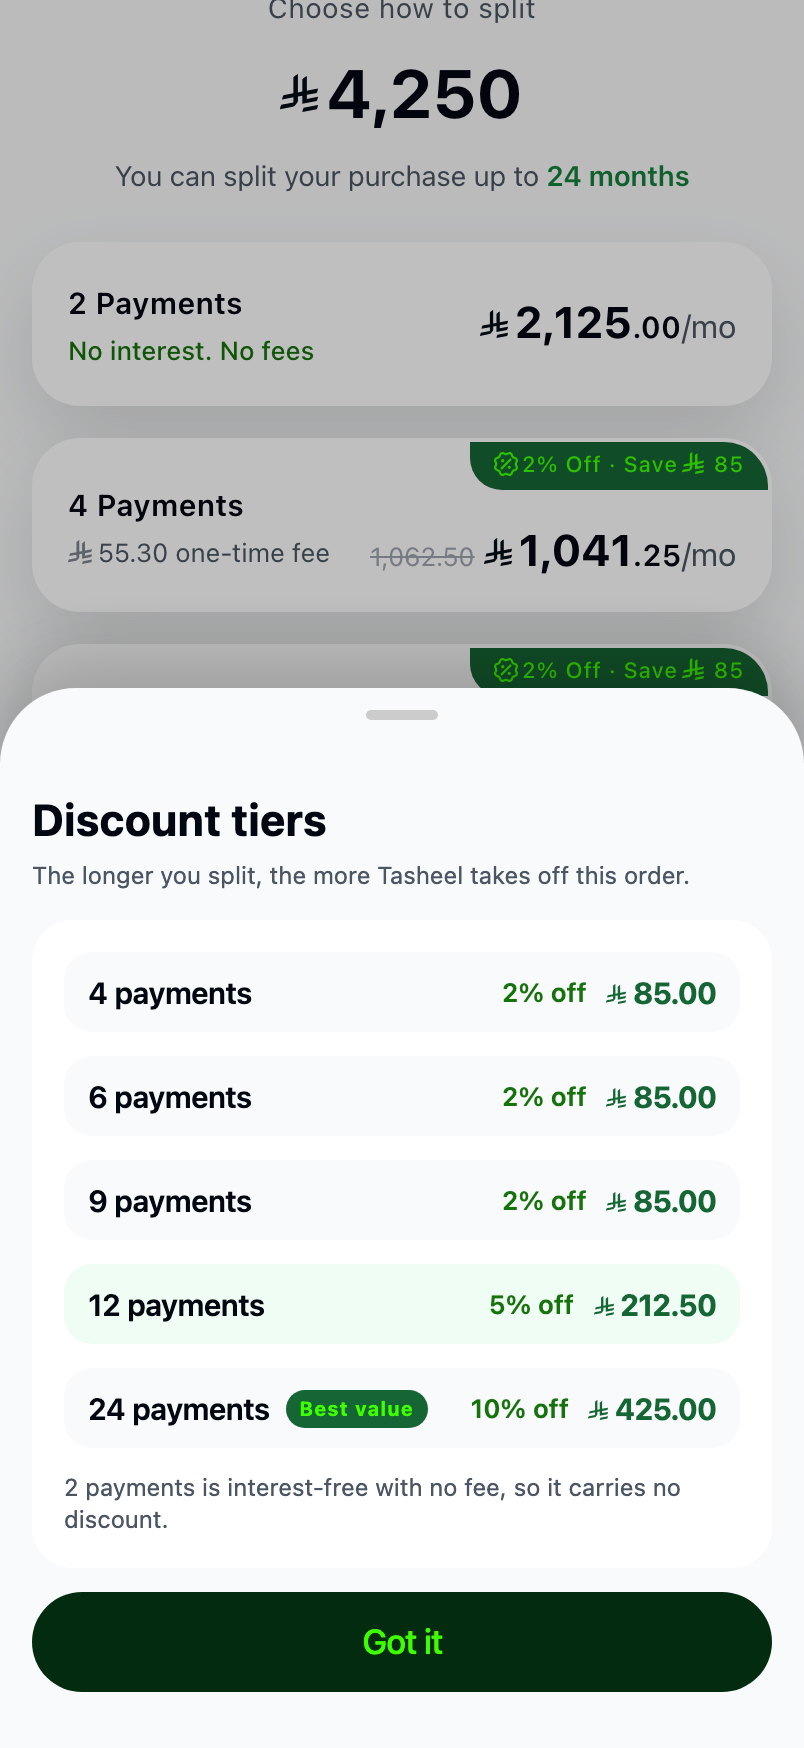
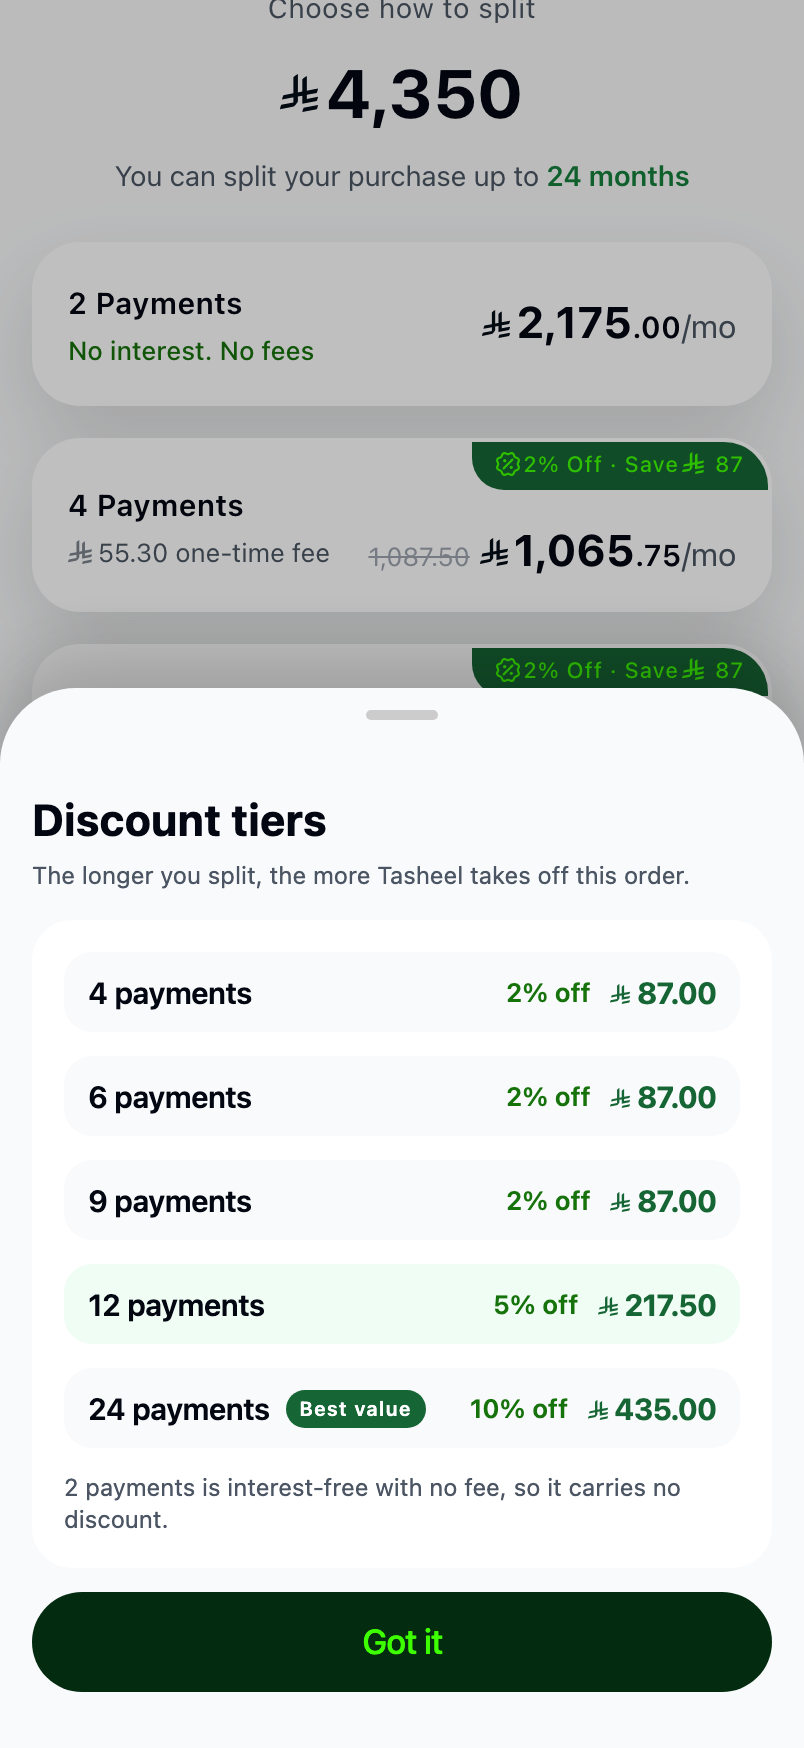
One discount system: plan tiers on the cart total, nothing else
The pill said 12% because it combined an invented merchant discount (4,350 ->
4,250) with the plan tier. That merchant discount is gone: the plan tier IS the
discount, always on the cart total, so every percent a shopper sees matches a
drop they can verify (10% of 4,350 = 435, pay 3,915).

- Cart pill: chip + strikethrough only when a discounted plan is selected;
  before any selection it is just "2 Items - 4,350". Chip shows the plan's own
  rate, never a blended number.
- Hero: fee disclosure only ("includes 55.30 in total fees"), Figma copy.
- Ledger + cart sheet: "Plan discount (n%)" replaces the two-discount stack.
- Success + notification + deep link amounts follow wcPlanPayable(months).
- Rail beautified: full card width, 44px buttons, 20px numbers, and the 10%
  best rate is a small solid badge instead of a fifth text label.
- Saving strip: one sentence + "Discounts >" link, underline dropped; best
  state reads "Best value - 10% off your cart".

diff --git a/App.tsx b/App.tsx
@@ -830,7 +830,7 @@ function Checkout({ setRoute }: { setRoute: (r: RouteKey) => void }) {
             <Pressable
               testID="wc-tasheel-offer"
               accessibilityRole="button"
-              accessibilityLabel={`Continue with Tasheel Finance, instant ${WC_DISCOUNT_PERCENT} percent off, pay ${wcMoney(WC_DISCOUNTED_TOTAL)} instead of ${wcMoney(WC_CART_TOTAL)}`}
+              accessibilityLabel={`Continue with Tasheel Finance, up to ${Math.round(wcSavingRate(WC_BEST_TENURE) * 100)} percent off your order, split in up to ${WC_TENURES[WC_TENURES.length - 1]} payments`}
               onPress={() => { setCheckoutMethod('tasheel'); setRoute('wcMobile'); }}
               style={[styles.xOfferCard, checkoutMethod === 'tasheel' && styles.xOfferCardSelected]}
             >
@@ -842,7 +842,7 @@ function Checkout({ setRoute }: { setRoute: (r: RouteKey) => void }) {
               </View>
               <Text style={styles.xOfferTitle}>Split your purchases your way!</Text>
               <Text style={styles.xOfferBody}>
-                Instant {WC_DISCOUNT_PERCENT}% off your order — pay {wcMoney(WC_DISCOUNTED_TOTAL)} instead of {wcMoney(WC_CART_TOTAL)}, in up to {WC_TENURES[WC_TENURES.length - 1]} payments.
+                Up to {Math.round(wcSavingRate(WC_BEST_TENURE) * 100)}% off your order, split in up to {WC_TENURES[WC_TENURES.length - 1]} payments. Longer plans earn bigger discounts.
               </Text>
               <Pressable onPress={() => setHowOpen((v) => !v)} accessibilityRole="button" accessibilityLabel="How does Tasheel Finance work?" hitSlop={6}>
                 <Text style={styles.xOfferLink}>{howOpen ? 'Hide details' : 'How does it work?'}</Text>
@@ -1287,17 +1287,14 @@ function WcNafath({ setRoute }: { setRoute: (r: RouteKey) => void }) {
   );
 }
 
-// Harun meeting fixture: discount first, then finance only up to the available
-// BNPL limit. Any excess becomes the down payment; today's charge also includes
-// the first installment. Unknown long-tenure rates stay blocked, never inferred.
+// One discount system, one base: every rate below applies to the cart total.
+// There is no separate merchant discount — the plan tier IS the discount, so
+// the percent a shopper sees always matches the drop they can verify (4,350
+// minus 10% = 3,915). Financing is capped by the available BNPL limit; any
+// excess would become a down payment.
 const WC_CART_TOTAL = 4350.00;
 const WC_CART_ITEMS: number = 2;
 const WC_ORDER_REFERENCE = 'EXT-2026-45210';
-const WC_DISCOUNT_AMOUNT = 100.00;
-const WC_DISCOUNTED_TOTAL = Math.round((WC_CART_TOTAL - WC_DISCOUNT_AMOUNT) * 100) / 100;
-// Displayed as a whole percent on the cart pill, exactly as the Figma frame does
-// (4,350 → 4,250 reads as "2% Off"). Derived, never hard-coded in copy.
-const WC_DISCOUNT_PERCENT = Math.round((WC_DISCOUNT_AMOUNT / WC_CART_TOTAL) * 100);
 const WC_AVAILABLE_LIMIT = 5000.00;
 const WC_TENURES = [2, 4, 6, 9, 12, 24] as const;
 // Figma 3615:74055 — 2 payments is the free tier; every longer tenure carries a
@@ -1313,17 +1310,17 @@ const WC_SAVING_RATES: Record<number, number> = {
 };
 const wcPlanFee = (months: number) => (WC_SAVING_RATES[months] ? WC_PLAN_FEE : 0);
 const wcSavingRate = (months: number) => WC_SAVING_RATES[months] ?? 0;
-const wcPlanSaving = (months: number) => Math.round(WC_DISCOUNTED_TOTAL * wcSavingRate(months) * 100) / 100;
-// The tier saving comes off the amount financed — it is a real discount, not a
+const wcPlanSaving = (months: number) => Math.round(WC_CART_TOTAL * wcSavingRate(months) * 100) / 100;
+// The tier saving comes off the cart total — it is a real discount, not a
 // badge — so a longer tenure lowers both the total and every installment.
-const wcPlanPayable = (months: number) => Math.round((WC_DISCOUNTED_TOTAL - wcPlanSaving(months)) * 100) / 100;
+const wcPlanPayable = (months: number) => Math.round((WC_CART_TOTAL - wcPlanSaving(months)) * 100) / 100;
 const wcPlanFinanced = (months: number) => Math.min(wcPlanPayable(months), WC_AVAILABLE_LIMIT);
 const wcPlanDown = (months: number) => Math.max(0, Math.round((wcPlanPayable(months) - wcPlanFinanced(months)) * 100) / 100);
 const wcPlanTotal = (months: number) => Math.round((wcPlanPayable(months) + wcPlanFee(months)) * 100) / 100;
 const wcPlanMonthly = (months: number) => Math.round((wcPlanFinanced(months) / months) * 100) / 100;
 // Anchor price: what the same tenure would cost without its tier discount. Shown
 // struck-through next to the real monthly so the saving is felt, not just labelled.
-const wcPlanBaseMonthly = (months: number) => Math.round((Math.min(WC_DISCOUNTED_TOTAL, WC_AVAILABLE_LIMIT) / months) * 100) / 100;
+const wcPlanBaseMonthly = (months: number) => Math.round((Math.min(WC_CART_TOTAL, WC_AVAILABLE_LIMIT) / months) * 100) / 100;
 // The best plan is the highest saving rate — the product's headline offer (24 mo, 10%).
 const WC_BEST_TENURE = WC_TENURES.reduce((best, m) => (wcSavingRate(m) > wcSavingRate(best) ? m : best), WC_TENURES[0]);
 const wcPlanToday = (months: number) => Math.round((wcPlanDown(months) + wcPlanMonthly(months) + wcPlanFee(months)) * 100) / 100;
@@ -1336,7 +1333,7 @@ const wcOpenTasheelApp = (destination = 'tasheel://bnpl') => {
 const wcPurchaseDeepLink = (months: number) => {
   const params = new URLSearchParams({
     orderRef: WC_ORDER_REFERENCE,
-    amount: WC_DISCOUNTED_TOTAL.toFixed(2),
+    amount: wcPlanPayable(months).toFixed(2),
     months: String(months),
     merchant: 'extrastores',
   });
@@ -1417,28 +1414,36 @@ function WcQuickCall({ setRoute }: { setRoute: (r: RouteKey) => void }) {
 
 // Figma 3529:83319 — cart summary pill shared by both plan-selection variants:
 // item count, the applied merchant discount, struck original and payable total.
-// Every discount in this product lands on the cart total, so the pill is live:
-// pass the selected tenure and the cart amount drops with it, the chip carrying
-// the combined percent off the original 4,350 (merchant + plan tier).
+// Every discount lands on the cart total, so the pill is live: pick a plan and
+// the cart amount drops with it, the chip showing that plan's rate. With no
+// discounted plan selected there is nothing to claim — no chip, no strikethrough.
 function WcCartPill({ onPress, months }: { onPress: () => void; months?: number | null }) {
-  const tierSaving = months ? wcPlanSaving(months) : 0;
-  const payable = Math.round((WC_DISCOUNTED_TOTAL - tierSaving) * 100) / 100;
-  const pct = Math.round(((WC_DISCOUNT_AMOUNT + tierSaving) / WC_CART_TOTAL) * 100);
+  const rate = months ? Math.round(wcSavingRate(months) * 100) : 0;
+  const saving = months ? wcPlanSaving(months) : 0;
+  const payable = Math.round((WC_CART_TOTAL - saving) * 100) / 100;
   return (
     <Pressable
       testID="wc-cart-pill"
       style={styles.wcCartPill}
       onPress={onPress}
       accessibilityRole="button"
-      accessibilityLabel={`${WC_CART_ITEMS} items, ${pct} percent off your cart, pay ${wcMoney(payable)} instead of ${wcMoney(WC_CART_TOTAL)}. View cart details`}
+      accessibilityLabel={
+        saving > 0
+          ? `${WC_CART_ITEMS} items, ${rate} percent off your cart, pay ${wcMoney(payable)} instead of ${wcMoney(WC_CART_TOTAL)}. View cart details`
+          : `${WC_CART_ITEMS} items, ${wcMoney(WC_CART_TOTAL)}. View cart details`
+      }
     >
       <View style={styles.wcCartLeft}>
         <Image source={figmaImageSource('wcCartIcon')} resizeMode="contain" accessibilityIgnoresInvertColors style={{ width: 16, height: 16 }} />
         <Text style={styles.wcCartItems}>{WC_CART_ITEMS} {WC_CART_ITEMS === 1 ? 'Item' : 'Items'}</Text>
       </View>
       <View style={styles.wcCartRight}>
-        <View style={styles.wcCartDiscountChip}><Text style={styles.wcCartDiscountChipText}>{pct}% Off</Text></View>
-        <Text style={styles.wcCartWasPrice}>{formatAmount(WC_CART_TOTAL)}</Text>
+        {saving > 0 ? (
+          <>
+            <View style={styles.wcCartDiscountChip}><Text style={styles.wcCartDiscountChipText}>{rate}% Off</Text></View>
+            <Text style={styles.wcCartWasPrice}>{formatAmount(WC_CART_TOTAL)}</Text>
+          </>
+        ) : null}
         <Money amount={wcSaving(payable)} size={16} weight="600" />
         <Image source={figmaImageSource('wcArrowRight')} resizeMode="contain" accessibilityIgnoresInvertColors style={{ width: 13, height: 13 }} />
       </View>
@@ -1452,18 +1457,12 @@ function WcSavingStrip({ months, onViewDiscounts }: { months: number; onViewDisc
   const saving = wcPlanSaving(months);
   const isBest = months === WC_BEST_TENURE;
   return (
-    <View style={[styles.wcSavingStrip, isBest && styles.wcSavingStripBest]}>
+    <View style={styles.wcSavingStrip}>
       <View style={styles.wcSavingLeft}>
-        {isBest ? (
-          <View style={styles.wcBestChip}><Text style={styles.wcBestChipText}>Best value</Text></View>
-        ) : (
-          <SaleTag size={16} color={greenMid} />
-        )}
+        <SaleTag size={16} color={greenMid} />
         {saving > 0 ? (
-          // On the best plan the chip + live cart pill already carry the story;
-          // repeating "Save 425" here is what made the strip wrap.
           isBest ? (
-            <Text style={styles.wcSavingText}>{Math.round(wcSavingRate(months) * 100)}% off your cart</Text>
+            <Text style={styles.wcSavingText}>Best value · {Math.round(wcSavingRate(months) * 100)}% off your cart</Text>
           ) : (
             <>
               <Text style={styles.wcSavingText}>{Math.round(wcSavingRate(months) * 100)}% off cart · Save</Text>
@@ -1476,7 +1475,7 @@ function WcSavingStrip({ months, onViewDiscounts }: { months: number; onViewDisc
         )}
       </View>
       <Pressable testID="wc-view-discounts" onPress={onViewDiscounts} hitSlop={10} accessibilityRole="button" accessibilityLabel="View discount tiers">
-        <Text style={styles.wcSavingLink}>View discounts</Text>
+        <Text style={styles.wcSavingLink}>Discounts ›</Text>
       </Pressable>
     </View>
   );
@@ -1551,7 +1550,12 @@ function WcTenureRail({ months, onSelect }: { months: number; onSelect: (m: numb
               style={styles.wcStepperSlot}
             >
               <Text style={styles.wcStepperSide}>{value}</Text>
-              <Text style={[styles.wcStepperPct, value === WC_BEST_TENURE && styles.wcStepperPctBest]}>{pct}</Text>
+              {value === WC_BEST_TENURE && rate > 0 ? (
+                // The headline rate is a jewel, not a fifth text label.
+                <View style={styles.wcStepperBestPill}><Text style={styles.wcStepperBestPillText}>{pct}</Text></View>
+              ) : (
+                <Text style={styles.wcStepperPct}>{pct}</Text>
+              )}
             </Pressable>
           );
         })}
@@ -1603,21 +1607,18 @@ function WcTenure({ setRoute, months, setMonths }: { setRoute: (r: RouteKey) => 
                       <Text style={styles.wcPlanHeroAmount}>{wcMoney(wcPlanMonthly(months))}</Text>
                       <Text style={styles.wcPlanHeroPer}>/mo</Text>
                     </View>
-                    {/* Total + fee only — the discount story lives on the cart
-                        pill above, which drops as the tenure grows. */}
+                    {/* Fee disclosure only (Figma 3529:83379) — the totals and the
+                        discount story live on the cart pill above. */}
                     <View style={styles.wcPlanTotalRow}>
-                      <Text style={styles.wcPlanTotalLabel}>Total</Text>
-                      <Riyal size={11} />
-                      <Text style={styles.wcPlanTotalAmount}>{wcSaving(wcPlanPayable(months))}</Text>
                       {fee > 0 ? (
                         <>
-                          <Text style={styles.wcPlanTotalFee}>+ <Riyal size={10} color={muted} /> {wcMoney(fee)} fee</Text>
+                          <Text style={styles.wcPlanTotalFee}>includes <Riyal size={10} color={muted} /> {wcMoney(fee)} in total fees</Text>
                           <Pressable testID="wc-fee-help" onPress={() => setSheet('fee')} hitSlop={10} accessibilityRole="button" accessibilityLabel={`Explain the ${months} month fee`}>
                             <Image source={figmaImageSource('wcInfoCircle')} resizeMode="contain" accessibilityIgnoresInvertColors style={{ width: 13, height: 13 }} />
                           </Pressable>
                         </>
                       ) : (
-                        <Text style={styles.wcPlanTotalFee}>· No fees</Text>
+                        <Text style={styles.wcPlanTotalFee}>No interest. No fees</Text>
                       )}
                     </View>
                   </View>
@@ -1728,7 +1729,7 @@ function WcPlanList({ setRoute, months, setMonths }: { setRoute: (r: RouteKey) =
               <Text style={styles.wcPlansEyebrow}>Choose how to split</Text>
               <View style={styles.wcPlansTotalRow}>
                 <Riyal size={19} />
-                <Text style={styles.wcPlansTotal}>{formatAmount(WC_DISCOUNTED_TOTAL)}</Text>
+                <Text style={styles.wcPlansTotal}>{formatAmount(WC_CART_TOTAL)}</Text>
               </View>
               <Text style={styles.wcPlansSub}>
                 You can split your purchase up to <Text style={styles.wcPlansSubStrong}>{maxTenure} months</Text>
@@ -1747,7 +1748,7 @@ function WcPlanList({ setRoute, months, setMonths }: { setRoute: (r: RouteKey) =
               accessibilityLabel="View discount tiers"
               style={{ alignSelf: 'center' }}
             >
-              <Text style={styles.wcSavingLink}>View discount tiers</Text>
+              <Text style={styles.wcSavingLink}>View discount tiers ›</Text>
             </Pressable>
           </View>
           <View style={styles.wcPlansFooter}>
@@ -1870,13 +1871,11 @@ function WcPlanDetailsSheet({ months, onClose, onViewSchedule, onContinue }: { m
           </Pressable>
         </View>
         <View style={styles.wcDetailsCard}>
-          <View style={styles.reviewLine}><Text style={styles.wcDetailsLabel}>Order total</Text><Money amount={wcMoney(WC_CART_TOTAL)} size={17} /></View>
-          <View style={styles.reviewDivider} />
-          <View style={styles.reviewLine}><Text style={[styles.wcDetailsLabel, { color: greenMid }]}>Tasheel discount ({WC_DISCOUNT_PERCENT}%)</Text><Text style={styles.wcFeeFree}>− <Riyal size={10} color={greenMid} /> {wcMoney(WC_DISCOUNT_AMOUNT)}</Text></View>
+          <View style={styles.reviewLine}><Text style={styles.wcDetailsLabel}>Cart total</Text><Money amount={wcMoney(WC_CART_TOTAL)} size={17} /></View>
           <View style={styles.reviewDivider} />
           {saving > 0 ? (
             <>
-              <View style={styles.reviewLine}><Text style={[styles.wcDetailsLabel, { color: greenMid }]}>{months}-month plan saving ({Math.round(wcSavingRate(months) * 100)}%)</Text><Text style={styles.wcFeeFree}>− <Riyal size={10} color={greenMid} /> {wcMoney(saving)}</Text></View>
+              <View style={styles.reviewLine}><Text style={[styles.wcDetailsLabel, { color: greenMid }]}>Plan discount ({Math.round(wcSavingRate(months) * 100)}%)</Text><Text style={styles.wcFeeFree}>− <Riyal size={10} color={greenMid} /> {wcMoney(saving)}</Text></View>
               <View style={styles.reviewDivider} />
             </>
           ) : null}
@@ -2059,18 +2058,12 @@ function WcCartSheet({ onClose }: { onClose: () => void }) {
             <Text style={styles.wcDetailsDim}>Subtotal</Text>
             <Money amount={wcMoney(WC_CART_TOTAL)} size={15} color={muted} />
           </View>
-          <View style={styles.wcCartTotalRow}>
-            <Text style={styles.wcCartDiscountLabel}>Tasheel discount ({WC_DISCOUNT_PERCENT}%)</Text>
-            <View style={{ flexDirection: 'row', alignItems: 'center' }}>
-              <Text style={styles.wcCartDiscountLabel}>− </Text>
-              <Money amount={wcMoney(WC_DISCOUNT_AMOUNT)} size={15} color={greenMid} weight="700" />
-            </View>
-          </View>
           <View style={styles.wcCartTotalDivider} />
           <View style={styles.wcCartTotalRow}>
             <Text style={styles.wcDetailsLabel}>Total</Text>
-            <Money amount={wcMoney(WC_DISCOUNTED_TOTAL)} size={17} weight="700" />
+            <Money amount={wcMoney(WC_CART_TOTAL)} size={17} weight="700" />
           </View>
+          <Text style={styles.wcDetailsDim}>Your plan discount comes off this total, up to {Math.round(wcSavingRate(WC_BEST_TENURE) * 100)}% with {WC_BEST_TENURE} months.</Text>
         </View>
         <Pressable testID="wc-cart-got-it" style={styles.wcGreenCta} onPress={onClose} accessibilityRole="button">
           <Text style={styles.wcGreenCtaText}>Got it</Text>
@@ -2333,7 +2326,7 @@ function WcSuccess({ months }: { months: number }) {
                 <Text style={styles.wcSuccessMerchantName}>Extrastores</Text>
                 <Text style={styles.wcSuccessMerchantSub}>{WC_CART_ITEMS} {WC_CART_ITEMS === 1 ? 'Item' : 'Items'}</Text>
               </View>
-              <Money amount={wcMoney(WC_DISCOUNTED_TOTAL)} size={18} weight="700" />
+              <Money amount={wcMoney(wcPlanPayable(months))} size={18} weight="700" />
             </View>
           </View>
           <View style={styles.wcSuccessCard}>
@@ -2417,7 +2410,7 @@ function WcNotification({ setRoute, months }: { setRoute: (r: RouteKey) => void;
                 <Text style={styles.wcNotifTime}>now</Text>
               </View>
               <Text style={styles.wcNotifTitle}>Purchase confirmed 🎉</Text>
-              <Text style={styles.wcNotifBody}>Your Extrastores purchase of <Riyal size={12} color={muted} /> {wcMoney(WC_DISCOUNTED_TOTAL)} after discount is split over {months} months. Tap to view your plan.</Text>
+              <Text style={styles.wcNotifBody}>Your Extrastores purchase of <Riyal size={12} color={muted} /> {wcMoney(wcPlanPayable(months))} after discount is split over {months} months. Tap to view your plan.</Text>
             </View>
           </Pressable>
         </Animated.View>
@@ -4570,21 +4563,23 @@ const styles = StyleSheet.create({
   wcPlanTitle: { fontSize: 28, lineHeight: 34, fontWeight: '700', color: text, letterSpacing: 0.36 },
   wcPlanSub: { fontSize: 14, lineHeight: 18, color: muted, letterSpacing: -0.08 },
   wcPlanSubStrong: { fontWeight: '600', color: '#15803d' },
-  // Figma 3529:83469 — the rail bleeds past the card inset to its 334px width.
-  wcStepperTrack: { alignSelf: 'stretch', marginHorizontal: -8, borderRadius: 999, backgroundColor: '#f3f4f6', paddingHorizontal: 12, paddingVertical: 7, flexDirection: 'row', alignItems: 'center', justifyContent: 'space-between' },
-  wcStepperMinus: { width: 47, height: 47, borderRadius: 99, backgroundColor: '#fff', borderWidth: 1, borderColor: borderSubtle, alignItems: 'center', justifyContent: 'center' },
-  wcStepperPlus: { width: 47, height: 47, borderRadius: 99, backgroundColor: green, alignItems: 'center', justifyContent: 'center' },
+  // The rail escapes the card inset entirely — full 358px of track so six slots
+  // and two 44px buttons sit loose instead of squeezed.
+  wcStepperTrack: { alignSelf: 'stretch', marginHorizontal: -20, borderRadius: 999, backgroundColor: '#f3f4f6', paddingHorizontal: 10, paddingVertical: 9, flexDirection: 'row', alignItems: 'center', justifyContent: 'space-between' },
+  wcStepperMinus: { width: 44, height: 44, borderRadius: 99, backgroundColor: '#fff', borderWidth: 1, borderColor: borderSubtle, alignItems: 'center', justifyContent: 'center' },
+  wcStepperPlus: { width: 44, height: 44, borderRadius: 99, backgroundColor: green, alignItems: 'center', justifyContent: 'center' },
   wcStepperValues: { flex: 1, flexDirection: 'row', alignItems: 'center', justifyContent: 'space-evenly', paddingHorizontal: 4 },
-  // Every slot shares one anatomy: a 41px number line over a 13px label line, so
+  // Every slot shares one anatomy: a 41px number line over a 16px label line, so
   // the whole rail sits on a single baseline grid regardless of selection.
   wcStepperActiveSlot: { alignItems: 'center' },
   wcStepperSlot: { alignItems: 'center' },
-  wcStepperSide: { fontSize: 19, lineHeight: 41, fontWeight: '500', color: muted, opacity: 0.25, letterSpacing: 0.38, textAlign: 'center', minWidth: 14 },
+  wcStepperSide: { fontSize: 20, lineHeight: 41, fontWeight: '500', color: muted, opacity: 0.25, letterSpacing: 0.38, textAlign: 'center', minWidth: 15 },
   // Discount ladder riding the rail — the rate each tenure unlocks, always visible.
-  wcStepperPct: { fontSize: 10, lineHeight: 13, fontWeight: '600', color: greenBrand, opacity: 0.5, marginTop: -4, textAlign: 'center' },
-  wcStepperPctBest: { opacity: 1 },
+  wcStepperPct: { fontSize: 10, lineHeight: 16, fontWeight: '600', color: greenBrand, opacity: 0.5, marginTop: -4, textAlign: 'center' },
+  wcStepperBestPill: { backgroundColor: greenMid, borderRadius: 999, paddingHorizontal: 6, paddingVertical: 1.5, marginTop: -3 },
+  wcStepperBestPillText: { fontSize: 9, lineHeight: 12, fontWeight: '700', color: neon, letterSpacing: 0.3 },
   wcStepperMain: { fontSize: 34, lineHeight: 41, fontWeight: '700', color: '#000', letterSpacing: 0.38, textAlign: 'center' },
-  wcStepperMonthsLabel: { fontSize: 10, lineHeight: 13, fontWeight: '500', color: muted, marginTop: -4, textAlign: 'center' },
+  wcStepperMonthsLabel: { fontSize: 10, lineHeight: 16, fontWeight: '500', color: muted, marginTop: -4, textAlign: 'center' },
   wcPlanHero: { alignItems: 'center', gap: 10 },
   wcPlanHeroRow: { flexDirection: 'row', alignItems: 'center', gap: 6 },
   wcPlanHeroAmount: { fontSize: 34, lineHeight: 41, fontWeight: '700', color: text, letterSpacing: 0.38 },
@@ -4597,9 +4592,9 @@ const styles = StyleSheet.create({
   wcSavingStrip: { alignSelf: 'stretch', backgroundColor: '#f0fdf4', borderRadius: 999, paddingHorizontal: 12, paddingVertical: 10, flexDirection: 'row', alignItems: 'center', justifyContent: 'space-between', gap: 8 },
   wcSavingStripBest: { paddingHorizontal: 10 },
   wcSavingLeft: { flexDirection: 'row', alignItems: 'center', gap: 5, flexShrink: 1 },
-  wcSavingText: { fontSize: 12, lineHeight: 16, fontWeight: '500', color: greenMid, letterSpacing: 0.38 },
+  wcSavingText: { fontSize: 13, lineHeight: 18, fontWeight: '500', color: greenMid, letterSpacing: -0.08 },
   wcBestChip: { backgroundColor: greenMid, borderRadius: 999, paddingHorizontal: 7, paddingVertical: 3 },
-  wcBestChipText: { fontSize: 10, lineHeight: 13, fontWeight: '700', color: neon, letterSpacing: 0.4 },
+  wcBestChipText: { fontSize: 10, lineHeight: 13, fontWeight: '600', color: '#ffffff', letterSpacing: 0.4 },
   wcNudge: { flexDirection: 'row', alignItems: 'center', gap: 6, paddingHorizontal: 12, paddingVertical: 6 },
   wcNudgeText: { fontSize: 12, lineHeight: 16, fontWeight: '600', color: greenBrand, letterSpacing: -0.08 },
   wcNudgeChevron: { fontSize: 14, lineHeight: 16, fontWeight: '600', color: greenBrand, marginTop: -1 },
@@ -4608,7 +4603,7 @@ const styles = StyleSheet.create({
   wcPlanTotalWas: { fontSize: 13, lineHeight: 18, color: '#9ca3af', textDecorationLine: 'line-through' },
   wcPlanTotalAmount: { fontSize: 13, lineHeight: 18, fontWeight: '600', color: text },
   wcPlanTotalFee: { fontSize: 13, lineHeight: 18, color: muted },
-  wcSavingLink: { fontSize: 11, lineHeight: 18, fontWeight: '600', color: greenBrand, letterSpacing: -0.08, textDecorationLine: 'underline' },
+  wcSavingLink: { fontSize: 12, lineHeight: 18, fontWeight: '600', color: greenBrand, letterSpacing: -0.08 },
   wcCtaDisabled: { backgroundColor: '#e5e7eb' },
   wcCtaDisabledText: { color: '#9ca3af' },
   // Figma 3529:83373 — discount ladder rows inside the sheet
